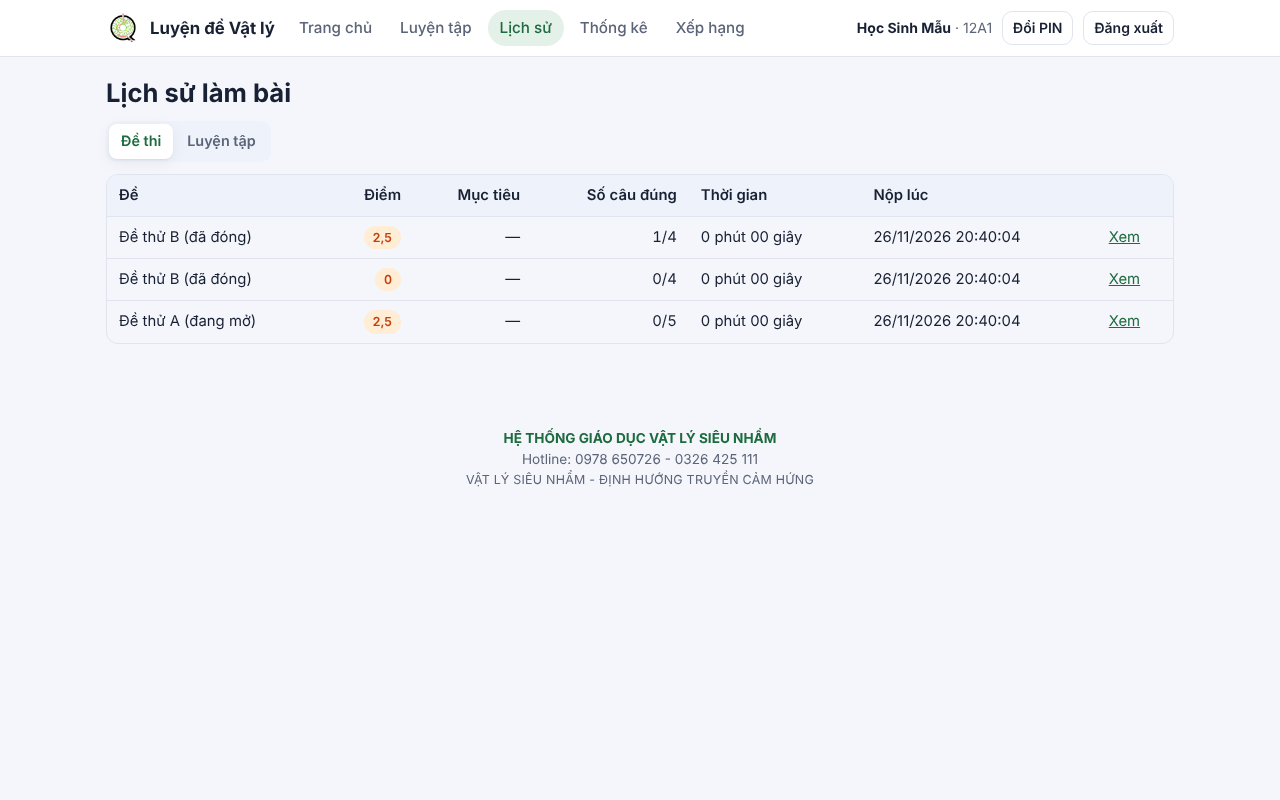
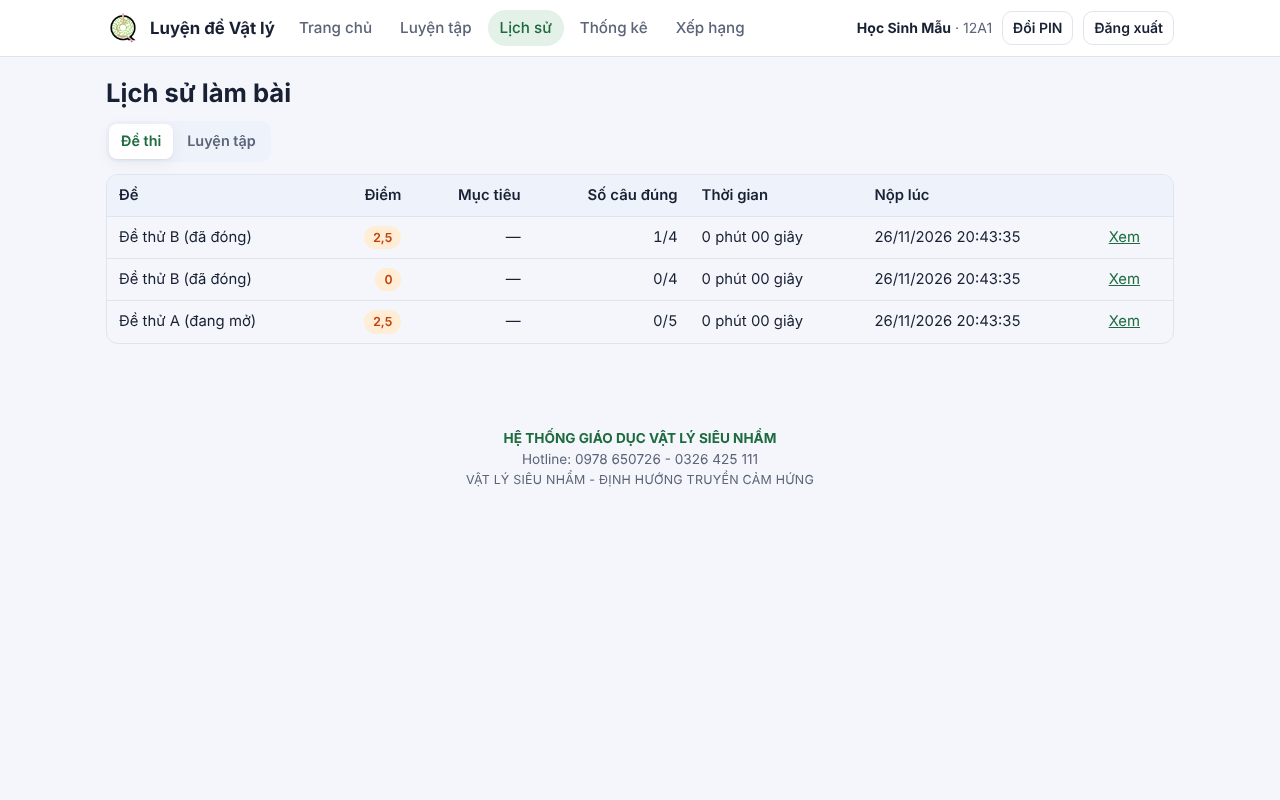
Pha 7a (kiểm thử): vòng 2 đang chạy — lưu bản dở
Claude-Session: https://claude.ai/code/session_01BBCuQ1QorEcsRk4FoU8uZP

diff --git a/tests/pha7a-kiem-thu.e2e.js b/tests/pha7a-kiem-thu.e2e.js
@@ -266,6 +266,44 @@ async function runNew(browser) {
         await page.waitForTimeout(600);
         const detB = (await page.textContent(`.nb-item[data-key="${kB3}"]`)).replace(/\s+/g, ' ');
         verdict('TC-7.6', /2,5|2\.5/.test(detB) && (/Lời giải/.test(detB)), `${scheme}: câu đề đã công bố có đáp án đúng và mục lời giải`);
+        // ---- Vòng 2: bấm trong sổ rồi đổi ô lọc ----
+        {
+          const vis = () => page.evaluate(() => [...document.querySelectorAll('#nbList .nb-item')].filter((e) => e.offsetParent !== null).map((e) => e.dataset.key).sort());
+          const exp = (f) => nbData.items.filter(f).map((x) => x.key).sort();
+          const ngoo = ['CONG_THUC', 'DOC_DE', 'TINH_TOAN', 'SOT'];
+          await page.click('#nbBook .nb-err-name[data-nbtype="TINH_TOAN"]'); await page.waitForTimeout(200);
+          await page.selectOption('#nbfMau', 'do'); await page.waitForTimeout(200);
+          const g1 = await vis(); const w1 = exp((x) => x.loi.ma === 'TINH_TOAN' && x.mau === 'do');
+          await page.selectOption('#nbfLoai', 'SOT'); await page.waitForTimeout(200);
+          const g2 = await vis(); const w2 = exp((x) => x.loi.ma === 'SOT' && x.mau === 'do');
+          await page.selectOption('#nbfMau', ''); await page.selectOption('#nbfLoai', ''); await page.waitForTimeout(200);
+          const g3 = await vis(); const w3 = exp(() => true);
+          verdict('TC-7.6', JSON.stringify(g1) === JSON.stringify(w1) && JSON.stringify(g2) === JSON.stringify(w2) && JSON.stringify(g3) === JSON.stringify(w3),
+            `${scheme} vòng 2: bấm "Tính toán" rồi chọn màu Đỏ → ${g1.length}/${w1.length}; đổi loại sang Sót → ${g2.length}/${w2.length}; bỏ hết lọc → ${g3.length}/${w3.length}`);
+          await page.click('#nbHkt summary'); await page.waitForTimeout(150);
+          const ch = await page.getAttribute('#nbHkt [data-nbch]', 'data-nbch');
+          await page.click('#nbHkt [data-nbch]'); await page.waitForTimeout(250);
+          const g4 = await vis(); const w4 = exp((x) => ngoo.indexOf(x.loi.ma) < 0 && x.chuong === ch);
+          const lab = (await page.textContent('#nbActive')).replace(/\s+/g, ' ').trim();
+          await page.selectOption('#nbfMau', 'do'); await page.waitForTimeout(200);
+          const g5 = await vis(); const w5 = exp((x) => x.mau === 'do');
+          verdict('TC-7.6', JSON.stringify(g4) === JSON.stringify(w4) && g4.length > 0 && JSON.stringify(g5) === JSON.stringify(w5),
+            `${scheme} vòng 2: bấm chương "${ch}" → chỉ câu Hổng kiến thức của chương (${g4.length}/${w4.length}, nhãn "${lab}"); đổi ô màu → lọc chương bỏ, còn ${g5.length}/${w5.length} câu đỏ`);
+          await page.selectOption('#nbfMau', ''); await page.waitForTimeout(150);
+          await page.click('#nbHkt summary'); await page.waitForTimeout(100);
+        }
+        // ---- Vòng 2 (K-1): tương phản chữ nhãn ----
+        {
+          await page.click(`.nb-row[data-nbopen="${S.B}#4"]`); await page.waitForTimeout(600);
+          const cs = await page.evaluate(() => {
+            const rgb = (s) => (s.match(/\d+(\.\d+)?/g) || []).slice(0, 3).map(Number);
+            const lum = (c) => { const v = c.map((x) => x / 255).map((x) => (x <= 0.03928 ? x / 12.92 : Math.pow((x + 0.055) / 1.055, 2.4))); return 0.2126 * v[0] + 0.7152 * v[1] + 0.0722 * v[2]; };
+            const eff = (el) => { while (el) { const c = getComputedStyle(el).backgroundColor; if (c && !/rgba\(0, 0, 0, 0\)|transparent/.test(c)) return c; el = el.parentElement; } return 'rgb(255,255,255)'; };
+            return [...document.querySelectorAll('.nb-rep, .nb-lab, .nb-count')].filter((e) => e.offsetParent !== null).map((e) => { const a = lum(rgb(getComputedStyle(e).color)), b = lum(rgb(eff(e))); return { t: e.textContent.trim().slice(0, 12), r: Math.round(((Math.max(a, b) + 0.05) / (Math.min(a, b) + 0.05)) * 100) / 100 }; });
+          });
+          const uniq = [...new Map(cs.map((x) => [x.t, x])).values()];
+          verdict('TC-7.6', uniq.length >= 3 && uniq.every((x) => x.r >= 4.5), `${scheme} vòng 2 (K-1): tương phản chữ nhãn ${JSON.stringify(uniq)}`);
+        }
         verdict('TC-7.6', await noHScroll(page), `1280 ${scheme}: không tràn ngang`);
         await ctx.close();
       }
@@ -301,6 +339,11 @@ async function runNew(browser) {
         await page.waitForTimeout(600);
         verdict('TC-7.6', st2.list && !st2.book && (await noHScroll(page)), `${scheme} 390: tab "Câu đã sai" hiện danh sách, ẩn sổ, mở chi tiết không tràn ngang`);
         await shot(page, scheme === 'light' ? '07-cau-sai-390' : '09-cau-sai-390-toi', { fullPage: true });
+        // Vòng 2 (R-7): rời trang rồi vào lại → tab Sổ tay mở lại
+        await page.goto(srv.base + '/#/lich-su'); await page.waitForTimeout(400);
+        await page.goto(srv.base + '/#/so-tay'); await page.waitForSelector('#nbSplit'); await page.waitForTimeout(400);
+        const re = await page.evaluate(() => ({ sel: document.querySelector('#nbTabBook').getAttribute('aria-selected'), book: getComputedStyle(document.querySelector('.nb-book-pane')).display !== 'none', list: getComputedStyle(document.querySelector('.nb-list-pane')).display !== 'none' }));
+        verdict('TC-7.6', re.sel === 'true' && re.book && !re.list, `${scheme} 390 vòng 2: rời trang khi đang ở tab Câu đã sai rồi vào lại → tab Sổ tay mở`);
         // bấm tên lỗi trên điện thoại → chuyển sang tab danh sách đã lọc
         await page.click('#nbTabBook'); await page.waitForTimeout(150);
         await page.click('#nbBook .nb-err-name[data-nbtype="SOT"]'); await page.waitForTimeout(300);

diff --git a/tests/pha7a-kiem-thu.test.js b/tests/pha7a-kiem-thu.test.js
@@ -529,6 +529,45 @@ t('notebook: tongHop có saiNgoo, bản đồ chương hongKT, số câu chưa p
   info('thứ tự items máy chủ trả: ' + ks + ' (thứ tự hiển thị Sai ngoo trước do giao diện sắp — kiểm ở e2e)');
 });
 
+// =====================================================================
+console.log('\nVòng 2 — đệm riêng từng học sinh');
+// =====================================================================
+t('Vòng 2: học sinh B nộp bài không làm sai sổ tay của A; A nộp bài thì sổ của A cập nhật ngay; sổ của B cũng đúng', () => {
+  const w = world();
+  const e = mkExam(w, 'Đề chung', [TN(1, 'A'), TN(2, 'B'), TL(3, '5')]);
+  submit(w, w.A, e, { 1: 'B', 2: 'B', 3: '5' });
+  const a1 = nb(w, w.A); assert.deepStrictEqual(itemsOf(a1).map((x) => x.key), [e + '#1']);
+  // B nộp (sai cả 3) — sổ A không đổi, sổ B có 3 câu
+  submit(w, w.B, e, { 1: 'C', 2: 'C', 3: '' });
+  const a2 = nb(w, w.A);
+  assert.deepStrictEqual(itemsOf(a2).map((x) => x.key), [e + '#1'], 'sổ A bị lẫn câu B: ' + itemsOf(a2).map((x) => x.key));
+  assert.strictEqual(itemsOf(nb(w, w.B)).length, 3, 'sổ B');
+  // A nộp lần 2: sai thêm câu 2, câu 1 đúng → cập nhật ngay
+  submit(w, w.A, e, { 1: 'A', 2: 'C', 3: '5' });
+  const a3 = byKey(nb(w, w.A));
+  assert.deepStrictEqual(Object.keys(a3).sort(), [e + '#1', e + '#2'].sort(), 'sổ A sau khi nộp');
+  assert.strictEqual(color(a3[e + '#1'].mau), 'vang');
+  // B nộp tiếp, rồi A xem lại vẫn đúng; notebookItem của A vẫn từ chối câu chỉ B sai
+  submit(w, w.B, e, { 1: 'A', 2: 'B', 3: '5' });
+  assert.strictEqual(itemsOf(nb(w, w.A)).length, 2);
+  const r = nbItem(w, [e + '#3'], w.A);
+  assert(!/tự soạn số 3/.test(JSON.stringify(r)), 'A đọc được câu chỉ B sai');
+  // B đã làm đúng hết lần 2 → câu của B thành vàng
+  assert(itemsOf(nb(w, w.B)).every((x) => color(x.mau) === 'vang'), 'sổ B sau khi B nộp lại');
+});
+t('Vòng 2: giáo viên đóng đề (công bố) thì đáp án hiện ngay trong notebookItem, không chờ đệm', () => {
+  const w = world({ studentB: false });
+  const e = mkExam(w, 'Đề đóng sau', [TL(1, '25')]);
+  submit(w, w.A, e, { 1: '0,25' });
+  nb(w); assert.deepStrictEqual(forbidKeys(ok(nbItem(w, [e + '#1'])), ['dapAn']), []);
+  const ex = ok(w.adm('adminGetExam', { examId: e }));
+  ok(w.adm('adminSaveExam', { exam: Object.assign({}, ex.exam, { trangThai: 'DONG' }), questions: ex.questions })); // không xóa đệm bằng tay
+  assert.strictEqual(forbidKeys(ok(nbItem(w, [e + '#1'])), ['dapAn']).length, 1, 'đáp án chưa hiện sau khi đóng đề');
+  const back = ok(w.adm('adminGetExam', { examId: e }));
+  ok(w.adm('adminSaveExam', { exam: Object.assign({}, back.exam, { trangThai: 'MO' }), questions: back.questions }));
+  assert.deepStrictEqual(forbidKeys(ok(nbItem(w, [e + '#1'])), ['dapAn', 'loiGiai']), [], 'mở lại đề mà vẫn hiện đáp án (đệm cũ)');
+});
+
 // ---------- tổng kết ----------
 const pass = results.filter((r) => r[1]).length;
 console.log(`\n${pass}/${results.length} đạt`);
